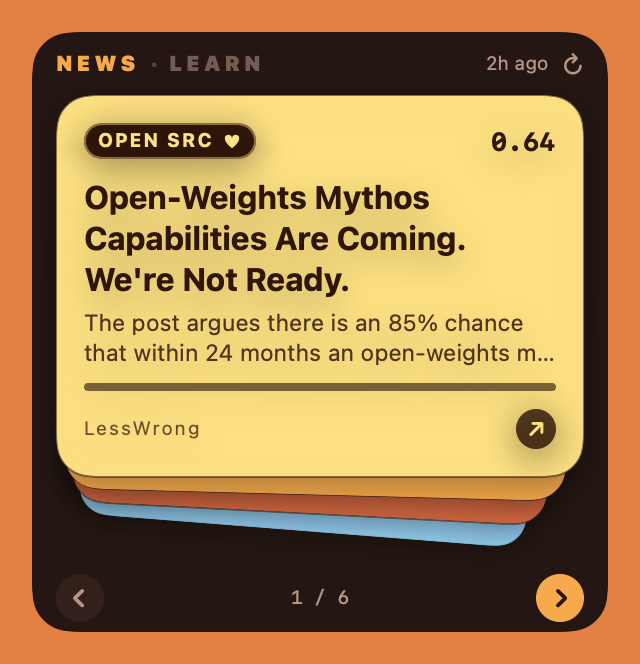
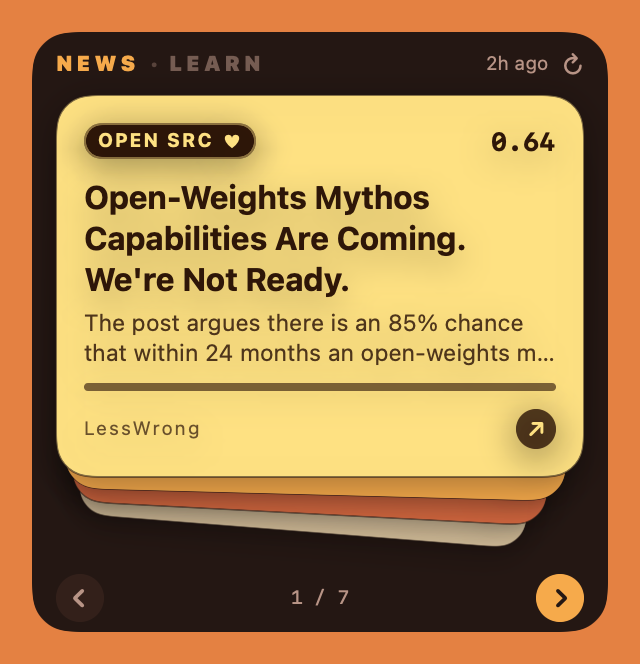
Give the README the screenshots the two big sections were missing
Both sections that carry the project were text-only past their first
paragraph, and both are about things you can see.

The ranking section now shows the card the worked example produces. The
argument in that section is that the ranking is printed on the card rather
than hidden behind the design — the badge is the subject that won, the number
is the score — and it is a much shorter argument with the card next to it.

The learning tab becomes a three-step strip: draw a topic, fifteen minutes,
keep the streak. It replaces one floated screenshot that was carrying the
whole feature, and it makes the border-as-timer point visible, which is the
one piece of that design that a paragraph genuinely cannot convey.

The hero captions gain a second line each, and a note that every screenshot
is rendered by the app's own `--snapshot --offline` mode rather than cropped
by hand — which is also the reason they can be regenerated instead of
quietly aging out of date.

All seven images re-rendered from the current fixture, so the world_politics
card added with that area is in them.

Claude-Session: https://claude.ai/code/session_018tG4WgnFuujx41nSwf6xzc

Changed region(s): [[0.125, 0.753, 0.8438, 0.8434], [0.5312, 0.8735, 0.5625, 0.9036]]

diff --git a/README.md b/README.md
@@ -11,11 +11,15 @@ that gets graded.**
     <td width="33%"><img src="docs/images/learn-result.png" alt="The learning tab's result screen, scoring an explanation 6 out of 10 with what was missed" width="100%"></td>
   </tr>
   <tr>
-    <td align="center"><em>Flip through the day</em></td>
-    <td align="center"><em>Open one and read it</em></td>
-    <td align="center"><em>Or get graded on what you know</em></td>
+    <td align="center"><sub><b>Flip through the day</b><br>ten stories, one card at a time</sub></td>
+    <td align="center"><sub><b>Open one and read it</b><br>summary, or have it read aloud</sub></td>
+    <td align="center"><sub><b>Get graded on what you know</b><br>fifteen minutes, then explain it</sub></td>
   </tr>
 </table>
+
+<sub>Real screenshots, rendered straight from the app by its own snapshot mode —
+`swift run ESPNewsWidget --snapshot out/ --offline` — so they regenerate
+instead of going stale.</sub>
 
 ## What it is, in plain English
 
@@ -78,13 +82,19 @@ All thirteen subjects score every article from 0 to 1. The article keeps its
                              └── keeps 0.65, filed under WORLD
 ```
 
+<img src="docs/images/world-card.png" alt="A news card tinted sand, badged WORLD, scoring 0.65, headlined 'South Korea proposes talks to officially end the war with the North'" width="270" align="right">
+
 Averaged across all thirteen, this story scores 0.14 and never sees daylight.
 Taking the best is how a front page actually works: nobody rejects a great
 hardware post for having nothing to say about Barcelona.
 
-Every card carries that winning line — subject, score, runner-up — which is
-what makes the profile debuggable. When a bad story shows up I can see which
-subject let it in and go fix that paragraph.
+On the right is that same story as it actually landed on the desk. The
+badge is the subject that won it and the number is the score — the ranking
+isn't hidden behind the design, it's printed on the card.
+
+That's what makes the profile debuggable. When a story shows up that
+shouldn't have, I can see which subject let it in and go fix that paragraph,
+rather than guessing at a model.
 
 ### Each subject has a volume knob
 
@@ -153,21 +163,37 @@ neither.
 
 ## The other half: fifteen minutes of learning
 
-<img src="docs/images/learn-timer.png" alt="The learning tab mid-session: a topic name, a countdown at 9:12, and the widget's own border draining as the timer runs" width="280" align="right">
+The second tab is a study habit rather than a reader.
 
-The second tab is a study habit rather than a reader. It picks one of 78
-machine-learning topics at random, starts a fifteen-minute timer, and then
-asks me to explain that topic from memory in my own words. An AI grades the
-explanation against a checklist of what a good answer contains — a checklist
-I never get to see beforehand, because if I could read it the exercise would
-be reading rather than recall. It comes back with a score, the specific
-things I missed, and the things I got right. Streaks and a rolling average
-are kept.
+<table>
+  <tr>
+    <td width="33%"><img src="docs/images/learn-topic.png" alt="The learning tab showing a drawn topic, 'The KV cache', tagged ADVANCED, with a Start 15 minutes button" width="100%"></td>
+    <td width="33%"><img src="docs/images/learn-timer.png" alt="Mid-session: the topic name, a countdown reading 9:12, and the widget's own border draining from the top as the timer runs" width="100%"></td>
+    <td width="33%"><img src="docs/images/learn-stats.png" alt="The stats screen: a current streak of 4, longest 9, 23 sessions, 7.4 average over the last ten and 6.8 all time" width="100%"></td>
+  </tr>
+  <tr>
+    <td align="center"><sub><b>1. Draw a topic</b><br>one of 78, at random</sub></td>
+    <td align="center"><sub><b>2. Fifteen minutes</b><br>then explain it from memory</sub></td>
+    <td align="center"><sub><b>3. Keep the streak</b><br>graded, tracked, averaged</sub></td>
+  </tr>
+</table>
 
-The countdown is the widget's own border, draining from the top as the
-fifteen minutes run down, the way the iPhone's Dynamic Island does it. On a
-window this small, a timer that costs no space is the difference between the
-countdown being readable and being an afterthought.
+It picks one of 78 machine-learning topics at random, starts a fifteen-minute
+timer, and then asks me to explain that topic from memory in my own words. An
+AI grades the explanation against a checklist of what a good answer contains
+— a checklist I never get to see beforehand, because if I could read it the
+exercise would be reading rather than recall. It comes back with a score, the
+specific things I missed, and the things I got right.
+
+The reason it works this way: reading about something feels like learning and
+mostly isn't. Explaining it without the page in front of you is the part that
+tells you whether you actually know it.
+
+**The countdown is the widget's own border** — look at the middle screenshot
+— draining from the top as the fifteen minutes run down, the way the iPhone's
+Dynamic Island does it. On a window this small, a timer that costs no
+vertical space is the difference between the countdown being readable and
+being an afterthought.
 
 ## Where it started: a thing on my desk
 
